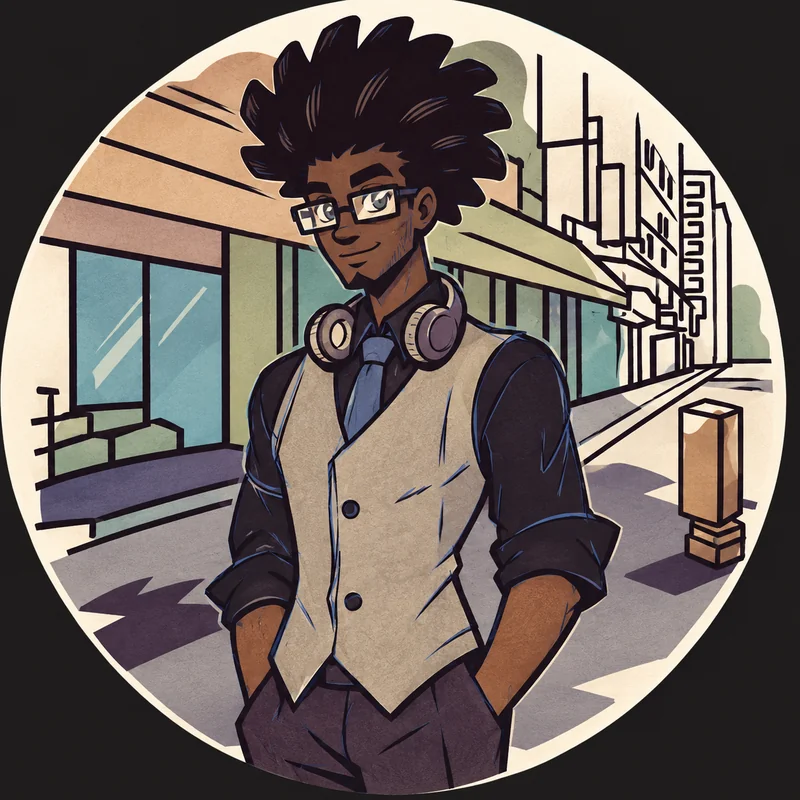
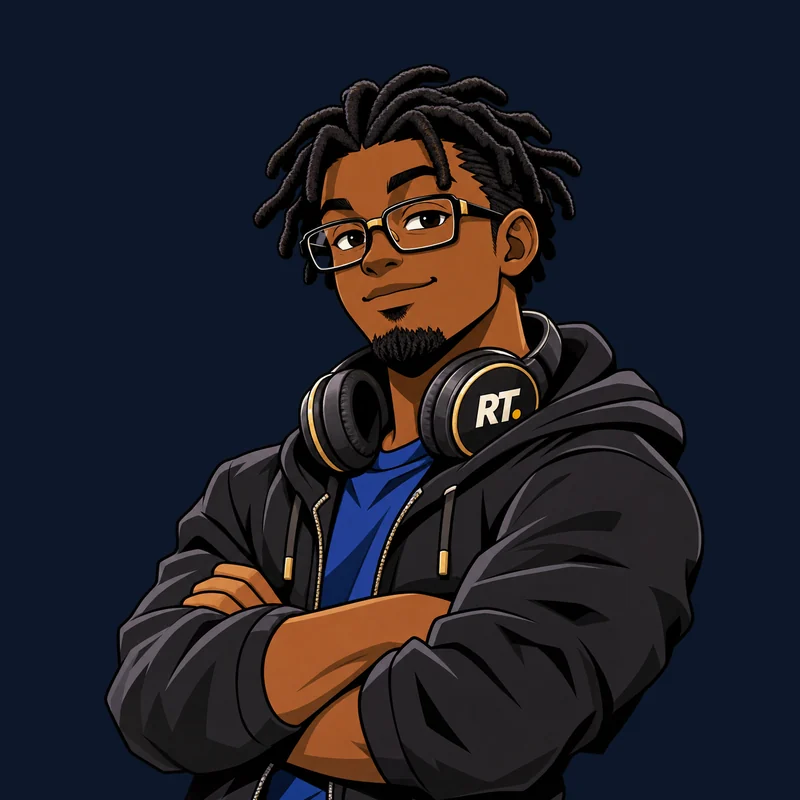
Phase 1D: owner-approved brand wording; official mascot on Home
- Apply the owner's role wording; mark objective and AI disclosure approved
- Replace the Home mascot with the official hoodie-and-locks character
- Keep the earlier vest artwork as an archived character variation
- Record RT_Logo_Outlined.svg and RT_Banner_Master_v2.ai; update CHANGES.md

Claude-Session: https://claude.ai/code/session_012j5Hr3Xsy7TB7ijrDmfY4e

diff --git a/src/data/projects.js b/src/data/projects.js
@@ -36,15 +36,15 @@ export const VISUAL_SOURCES = {
 // Unpublished until the owner confirms role, tools, status and supplies source media.
 const featured = [
   // Case study built from the Brand Asset Register v1.1, the Branding & Social Media Handoff,
-  // TEST 008 and owner-supplied files (Nov 26, 2026). Only verified facts; items marked
-  // OWNER TO APPROVE are draft wording awaiting the owner's sign-off.
+  // TEST 008 and owner-supplied files (Nov 26, 2026). Only verified facts; wording
+  // approved by the owner on Nov 26, 2026.
   {
     slug: 'rt-animation-brand-identity',
     title: 'RT.Animation Brand Identity',
     status: 'real',
     published: true,
     summary: 'The visual identity for RT.Animation: the RT. mark, a recurring mascot, a navy, ivory and gold palette, and the banners and icons used across social channels and email.',
-    role: 'Brand concept and creative direction, direction of AI-assisted artwork, Illustrator assembly of the Facebook banner, and rollout across the RT.Animation channels.', // OWNER TO APPROVE
+    role: "Brand concept, creative direction, direction of AI-assisted artwork, visual refinement, Adobe Illustrator assembly and rollout across RT.Animation's digital channels.", // owner-approved Nov 26, 2026
     tools: ['Adobe Illustrator', 'AI image tools'], // Illustrator verified from RT_Banner.ai; specific AI tools not documented
     aiAssisted: true,
     visual: 'final',
@@ -66,7 +66,7 @@ const featured = [
         {
           id: 'objective',
           title: 'Creative objective',
-          // OWNER TO APPROVE
+          // owner-approved Nov 26, 2026
           text: ['Create one recognizable, consistent identity that works at every size, from a small profile icon to a wide banner, and carries across the website, social channels, email and products.'],
         },
         {
@@ -82,10 +82,14 @@ const featured = [
           id: 'mascot',
           title: 'Mascot',
           text: [
-            'The RT.Animation mascot is a character with short locks, glasses and a goatee, wearing a black hoodie, a blue shirt and headphones that carry the RT. mark. He appears on the banners alongside the logo.',
+            'The primary RT.Animation mascot is a character with short locks, glasses and a goatee, wearing a black hoodie, a blue shirt and gold-trimmed headphones that carry the RT. mark. He appears on the banners alongside the logo and on the home page.',
+            'An earlier version of the character is kept as an archived variation.',
           ],
           note: 'AI-assisted character design under owner creative direction.',
-          figures: [{ file: 'mascot', caption: 'The RT.Animation mascot, shown on midnight navy.' }],
+          figures: [
+            { file: 'mascot', caption: 'Primary RT.Animation mascot, shown on midnight navy.' },
+            { file: 'archived-variation', caption: 'Archived character variation: the earlier version of the mascot, no longer in primary use.', badge: 'Archived', small: true },
+          ],
         },
         {
           id: 'palette',
@@ -104,7 +108,7 @@ const featured = [
             { font: 'Arial Bold Italic', use: 'Tagline “Bringing Ideas to Motion.”', weight: 700, style: 'italic' },
             { font: 'Arial', use: 'Services line and web address', weight: 400, style: 'normal' },
           ],
-          typeNote: 'Fonts verified from the embedded fonts in the Illustrator banner file (RT_Banner.ai).',
+          typeNote: 'Fonts verified from the embedded fonts in the Illustrator banner masters (RT_Banner.ai and RT_Banner_Master_v2.ai).',
         },
         {
           id: 'social',
@@ -127,13 +131,15 @@ const featured = [
             'RT. mark, ivory and gold (transparent PNG, 1962 × 802): approved, in use.',
             'Square email logo (240 × 240): in use with social@rtanimate.com.',
             'Circular gold-rimmed profile icon (1254 × 1254): in use on social profiles.',
-            'Mascot (transparent PNG, 1122 × 1402): in use on the banners.',
-            'Facebook banner (PNG export, 2172 × 724) and its Illustrator master RT_Banner.ai (Illustrator 27.4, 13 layers): in use.',
+            'Primary mascot (transparent PNG, 1122 × 1402): in use on the banners and the home page.',
+            'Facebook banner (PNG export, 2172 × 724), with Illustrator masters RT_Banner.ai and RT_Banner_Master_v2.ai (Illustrator 27.4): in use.',
+            'Outlined vector of the RT. mark (RT_Logo_Outlined.svg, 950.87 × 485.9): received; single-color source for future exports.',
+            'Earlier mascot version: archived character variation.',
             'YouTube banner (1672 × 941): concept; final export and crop to be confirmed.',
           ],
         },
       ],
-      aiDisclosure: 'Parts of this identity, including the mascot and the YouTube banner concept, were made with AI image tools under my creative direction. I assembled the Facebook banner in Adobe Illustrator.', // OWNER TO APPROVE
+      aiDisclosure: 'Parts of this identity, including the mascot and the YouTube banner concept, were made with AI image tools under my creative direction. I assembled the Facebook banner in Adobe Illustrator.', // owner-approved Nov 26, 2026
       linksTitle: 'Find RT.Animation',
       links: [
         { label: 'Visit RT.Animation on YouTube', href: 'https://www.youtube.com/@rtanimateofficial' },

diff --git a/src/pages/Home.jsx b/src/pages/Home.jsx
@@ -115,7 +115,7 @@ export default function Home() {
           <div className="art-frame px-art relative aspect-square overflow-hidden rounded-full" style={frame}>
             <img
               src="/rt-mascot.webp"
-              alt="RT.Animation mascot: an illustrated character with glasses, headphones and a vest on a city street"
+              alt="RT.Animation mascot: an illustrated character with short locks, glasses, a goatee, a black hoodie and gold-trimmed RT. headphones"
               width="800"
               height="800"
               className="h-full w-full object-cover"

diff --git a/CHANGES.md b/CHANGES.md
@@ -1,5 +1,14 @@
 # Changes
 
+## Phase 1D owner decisions (November 26, 2026)
+
+Owner-approved; pushed with 270bace to the PR #4 Preview only.
+
+- Brand Identity wording approved. Role: "Brand concept, creative direction, direction of AI-assisted artwork, visual refinement, Adobe Illustrator assembly and rollout across RT.Animation's digital channels." Objective and AI-assisted production approved as written ("AI image tools" kept until specific tools are verified).
+- Official mascot is the hoodie-and-locks character with glasses, goatee and gold-trimmed headphones. It now replaces the earlier vest character on the Home page (`public/rt-mascot.webp`, 800 × 800 on midnight navy). The earlier artwork is kept as an archived character variation (`rt-animation-brand-identity.archived-variation.webp`) and shown with an Archived badge in the case study. The AI-assisted character design disclosure is unchanged.
+- Brand standards kept: official ivory RT. mark with the gold dot, six-color working palette, Arial typography (now verified in RT_Banner.ai and RT_Banner_Master_v2.ai), YouTube banner labeled Concept.
+- Recorded RT_Logo_Outlined.svg (outlined vector, single color) and RT_Banner_Master_v2.ai in the asset list.
+
 ## Phase 1D: RT.Animation Brand Identity case study (local, November 26, 2026)
 
 Not pushed. Wording marked OWNER TO APPROVE in `src/data/projects.js` needs sign-off before the Preview is updated.
